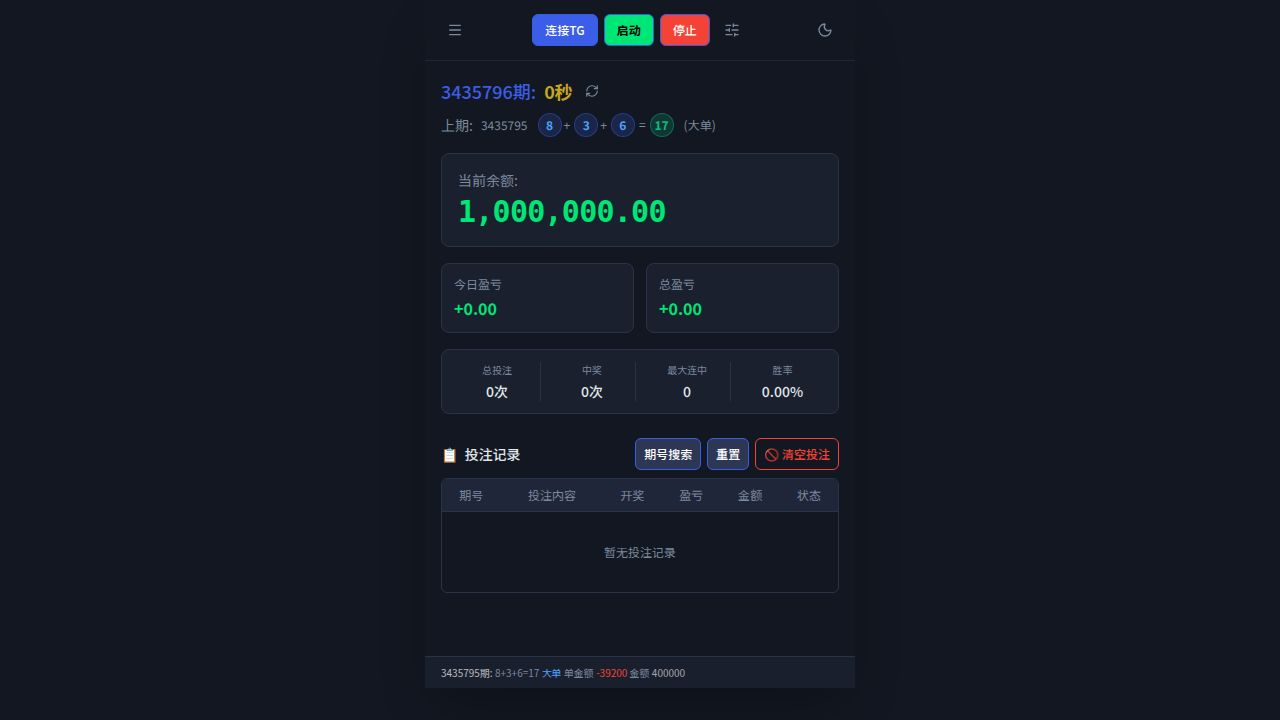
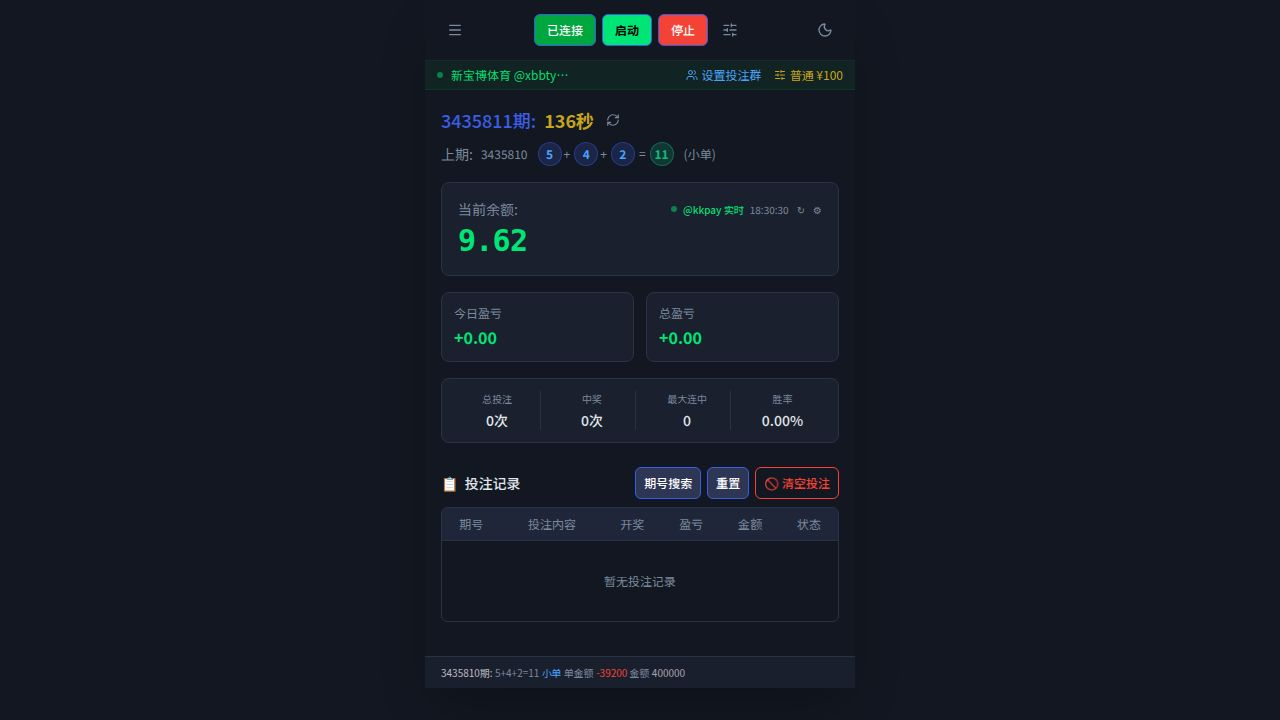
Simplify group binding and automatically detect win/loss for bets
Refactor API to auto-detect bet results from messages and update frontend to use BetSetupPanel, removing GroupSetupModal.

Replit-Commit-Author: Agent
Replit-Commit-Session-Id: 134be36f-f886-4852-860d-d42b0b425207
Replit-Commit-Checkpoint-Type: full_checkpoint
Replit-Commit-Event-Id: faab3757-2c0b-4859-8a9c-4fda75324559
Replit-Commit-Screenshot-Url: https://storage.googleapis.com/screenshot-production-us-central1/531c3ea8-7483-4140-98ee-118c895e985f/134be36f-f886-4852-860d-d42b0b425207/6XeGB7r
Replit-Helium-Checkpoint-Created: true

diff --git a/artifacts/api-server/src/routes/telegram.ts b/artifacts/api-server/src/routes/telegram.ts
@@ -383,6 +383,56 @@ function queryBalanceInGroup(session: TgSession, delayMs = 0): void {
   else void fire();
 }
 
+// ─── Settle a bet result (shared by kkpayHandler auto-detect & /tg/bet-result) ─
+function settleBet(
+  session: TgSession,
+  opts: { won: boolean; pnl?: number; result?: string; betId?: string },
+): void {
+  const { won, pnl, result, betId } = opts;
+
+  if (pnl !== undefined) {
+    session.sessionPnl += pnl;
+    session.balance += pnl;
+    const midnight = todayMidnight();
+    if (session.todayResetAt < midnight) {
+      session.todayPnl = 0;
+      session.todayResetAt = midnight;
+    }
+    session.todayPnl += pnl;
+  }
+
+  const record = betId
+    ? betLog.find(b => b.id === betId)
+    : betLog.find(b => b.status === "sent");
+  if (record) {
+    record.won = won;
+    record.status = won ? "won" : "lost";
+    if (pnl !== undefined) record.pnl = pnl;
+    if (result) record.lotteryResult = result;
+  }
+
+  if (result) {
+    session.recentResults.push(result);
+    if (session.recentResults.length > 30) session.recentResults.shift();
+  }
+
+  session.consecutiveLosses = won ? 0 : session.consecutiveLosses + 1;
+  session.currentBet = computeNextBet(session, won);
+
+  if (record) {
+    pushEvent("bet:result", {
+      bet: record,
+      balance: session.balance,
+      todayPnl: session.todayPnl,
+      sessionPnl: session.sessionPnl,
+      totalBets:
+        betLog.filter(b => b.status === "won" || b.status === "lost").length +
+        betLog.filter(b => b.status === "sent").length,
+      wins: betLog.filter(b => b.status === "won").length,
+    });
+  }
+}
+
 async function startKkpayWatcher(session: TgSession): Promise<void> {
   // Remove previous handler using the stored builder instance
   if (kkpayHandler && kkpayHandlerBuilder) {
@@ -417,6 +467,7 @@ async function startKkpayWatcher(session: TgSession): Promise<void> {
 
     if (!isFromKkpay && !inWatchGroup) return;
 
+    // ── Balance update (any kkpay message in the group) ──────────────────────
     const bal = parseBalanceFromKkpay(text);
     if (bal !== null) {
       session.balance = bal;
@@ -428,6 +479,36 @@ async function startKkpayWatcher(session: TgSession): Promise<void> {
         balanceUpdatedAt: session.balanceUpdatedAt,
       });
       saveSession();
+    }
+
+    // ── Win / loss auto-settle (only from kkpay bot's own messages) ──────────
+    if (isFromKkpay && tgSession === session) {
+      const hasWin  = /中奖|✅/.test(text);
+      const hasLoss = /挂逼|未中|未赢|❌/.test(text);
+
+      if (hasWin || hasLoss) {
+        const sentBet = betLog.find(b => b.status === "sent");
+        if (sentBet) {
+          // Extract signed P&L, e.g. "[phone redacted] KKCOIN" or "KKCOIN -100000"
+          const pnlMatch =
+            text.match(/([+-][\d,]+(?:\.\d+)?)\s*KKCOIN/i) ??
+            text.match(/KKCOIN\s*([+-][\d,]+(?:\.\d+)?)/i);
+          const pnl = pnlMatch
+            ? parseFloat(pnlMatch[1].replace(/,/g, ""))
+            : undefined;
+
+          // Extract lottery result keyword (大单/小双/大/小/单/双)
+          const rMatch = text.match(/[大小][单双]|[大小]|[单双]/);
+
+          settleBet(session, {
+            won: hasWin && !hasLoss,
+            pnl,
+            result: rMatch?.[0],
+            betId: sentBet.id,
+          });
+          queryBalanceInGroup(session, 1000);
+        }
+      }
     }
   };
 
@@ -1050,59 +1131,9 @@ router.post("/tg/bet-result", (req, res) => {
     return;
   }
 
-  if (pnl !== undefined) {
-    tgSession.sessionPnl += pnl;
-    // Update balance and todayPnl
-    tgSession.balance += pnl;
-    const midnight = todayMidnight();
-    if (tgSession.todayResetAt < midnight) {
-      tgSession.todayPnl = 0;
-      tgSession.todayResetAt = midnight;
-    }
-    tgSession.todayPnl += pnl;
-  }
-
-  // Update the matching bet record
-  const record = betId
-    ? betLog.find(b => b.id === betId)
-    : betLog.find(b => b.status === "sent");
-  if (record) {
-    if (won !== undefined) {
-      record.won = won;
-      record.status = won ? "won" : "lost";
-    }
-    if (pnl !== undefined) record.pnl = pnl;
-    if (result) record.lotteryResult = result;
-  }
-
-  // Record recent result for algorithm 3 & 4
-  if (result) {
-    tgSession.recentResults.push(result);
-    if (tgSession.recentResults.length > 30) tgSession.recentResults.shift();
-  }
-
   if (won !== undefined) {
-    if (won) {
-      tgSession.consecutiveLosses = 0;
-    } else {
-      tgSession.consecutiveLosses += 1;
-    }
-    tgSession.currentBet = computeNextBet(tgSession, won);
-    // Send "ye" to group to get updated balance from kkpay bot
+    settleBet(tgSession, { won, pnl, result, betId });
     queryBalanceInGroup(tgSession, 1000);
-  }
-
-  // Push real-time event: updated record + latest stats
-  if (record) {
-    pushEvent("bet:result", {
-      bet: record,
-      balance: tgSession.balance,
-      todayPnl: tgSession.todayPnl,
-      sessionPnl: tgSession.sessionPnl,
-      totalBets: betLog.filter(b => b.status === "won" || b.status === "lost").length +
-                 betLog.filter(b => b.status === "sent").length,
-      wins: betLog.filter(b => b.status === "won").length,
-    });
   }
 
   res.json({

diff --git a/artifacts/lottery-bot/src/pages/Dashboard.tsx b/artifacts/lottery-bot/src/pages/Dashboard.tsx
@@ -3,7 +3,6 @@ import { Button } from '@/components/ui/button';
 import { Menu, Moon, RefreshCw, Users, SlidersHorizontal } from 'lucide-react';
 import SettingsDrawer from '@/components/SettingsDrawer';
 import TelegramLoginModal from '@/components/TelegramLoginModal';
-import GroupSetupModal from '@/components/GroupSetupModal';
 import BetConfigModal, { type BetConfig } from '@/components/BetConfigModal';
 import TrendModal from '@/components/TrendModal';
 import type { LotteryTerm as TrendTerm } from '@/components/TrendModal';
@@ -49,8 +48,8 @@ interface BetRecord {
   won?: boolean;
 }
 
-const STATUS_LABEL: Record<string, string> = { sent: '挂', won: '中', lost: '未中', paused: '停', failed: '失败' };
-const STATUS_COLOR: Record<string, string> = { sent: '#f44336', won: '#00e676', lost: '#f44336', paused: '#c8a520', failed: '#888' };
+const STATUS_LABEL: Record<string, string> = { sent: '待开奖', won: '中奖', lost: '挂逼', paused: '停', failed: '失败' };
+const STATUS_COLOR: Record<string, string> = { sent: '#c8a520', won: '#00e676', lost: '#f44336', paused: '#888', failed: '#555' };
 
 function getSumColor(result: number): string {
   const blue = [0, 1, 3, 4, 9, 10, 14, 15, 20];
@@ -63,7 +62,6 @@ function getSumColor(result: number): string {
 export default function Dashboard() {
   const [drawerOpen, setDrawerOpen] = useState(false);
   const [loginOpen, setLoginOpen] = useState(false);
-  const [groupOpen, setGroupOpen] = useState(false);
   const [configOpen, setConfigOpen] = useState(false);
   const [countdown, setCountdown] = useState(0);
   const [currentPeriod, setCurrentPeriod] = useState(0);
@@ -270,7 +268,7 @@ export default function Dashboard() {
   function handleConnected(me: MeInfo) {
     setTgMe(me);
     setLoginOpen(false);
-    setTimeout(() => setGroupOpen(true), 400);
+    setTimeout(() => setBetSetupOpen(true), 400);
   }
 
   async function handleDisconnect() {
@@ -322,7 +320,7 @@ export default function Dashboard() {
             )}
             <Button
               size="sm"
-              onClick={() => tgMe ? setGroupOpen(true) : setLoginOpen(true)}
+              onClick={() => tgMe ? setBetSetupOpen(true) : setLoginOpen(true)}
               className={`${tgMe ? 'bg-green-600 hover:bg-green-700' : 'bg-[#3b5de7] hover:bg-blue-600'} text-white h-8 text-xs px-3`}
               data-testid="button-connect-tg"
             >
@@ -376,7 +374,7 @@ export default function Dashboard() {
             </div>
             <div className="flex items-center gap-3">
               <button
-                onClick={() => setGroupOpen(true)}
+                onClick={() => setBetSetupOpen(true)}
                 className="flex items-center gap-1 text-xs text-[#4CA2FF] hover:text-blue-400 transition-colors"
                 data-testid="button-set-group"
               >
@@ -627,14 +625,13 @@ export default function Dashboard() {
           tgMe={tgMe}
           watchGroup={watchGroup}
           onConnectTg={() => { setDrawerOpen(false); setTimeout(() => setLoginOpen(true), 200); }}
-          onSetGroup={() => { setDrawerOpen(false); setTimeout(() => setGroupOpen(true), 200); }}
+          onSetGroup={() => { setDrawerOpen(false); setTimeout(() => setBetSetupOpen(true), 200); }}
           onDisconnect={handleDisconnect}
           onOpenConfig={() => { setDrawerOpen(false); setTimeout(() => setConfigOpen(true), 200); }}
           onOpenTrend={() => { setDrawerOpen(false); setTimeout(() => setTrendOpen(true), 200); }}
           onOpenBetSetup={() => { setDrawerOpen(false); setTimeout(() => setBetSetupOpen(true), 200); }}
         />
         <TelegramLoginModal isOpen={loginOpen} onClose={() => setLoginOpen(false)} onConnected={handleConnected} />
-        <GroupSetupModal isOpen={groupOpen} onClose={() => setGroupOpen(false)} onGroupSet={setWatchGroup} currentGroupId={watchGroup?.id} />
         <BetConfigModal
           isOpen={configOpen}
           onClose={() => setConfigOpen(false)}